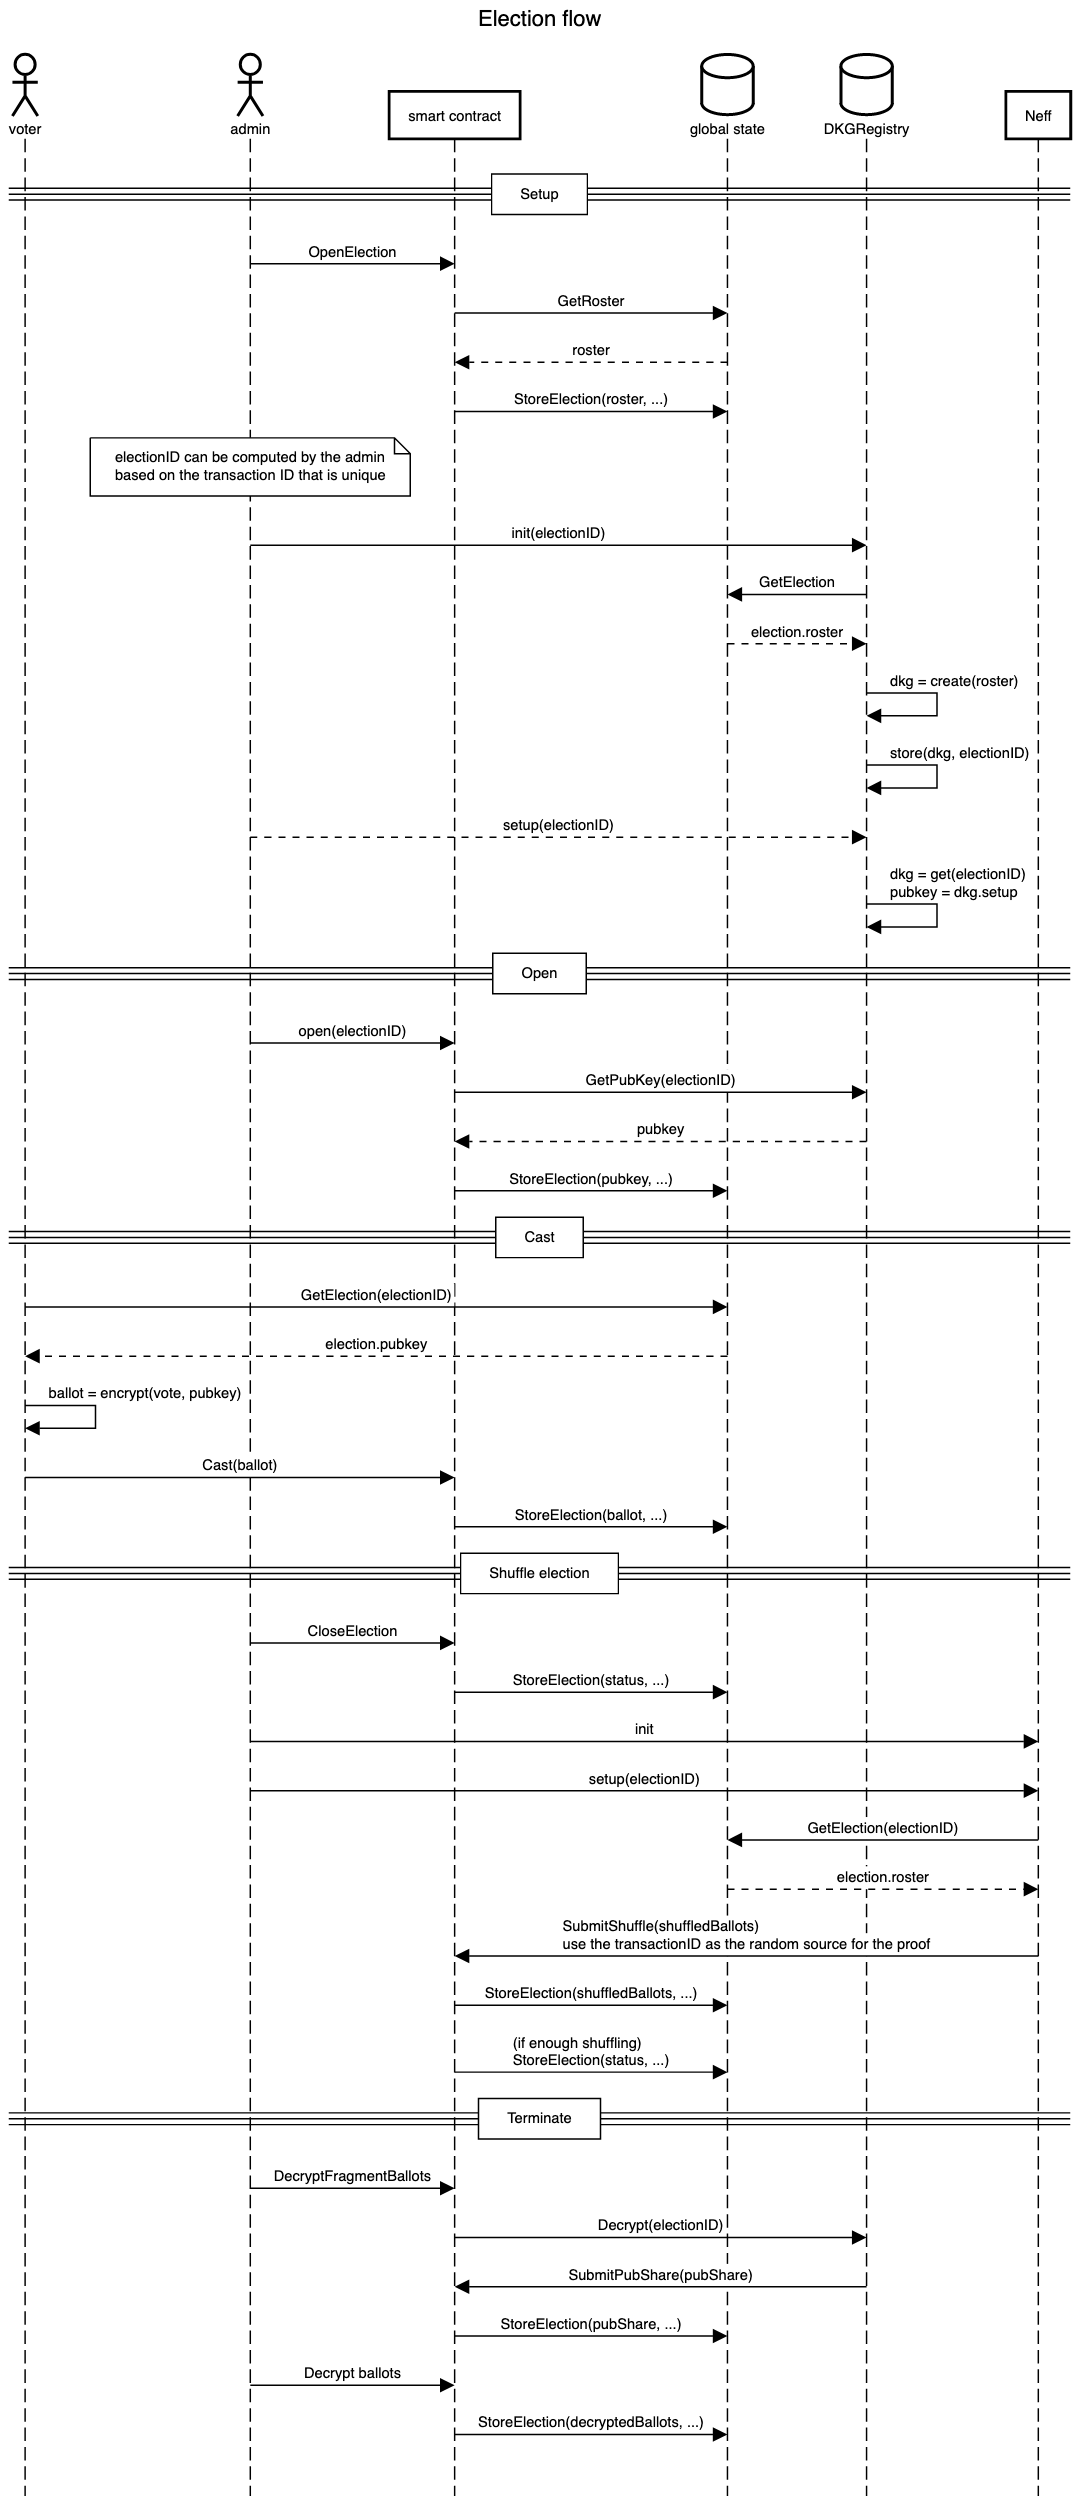
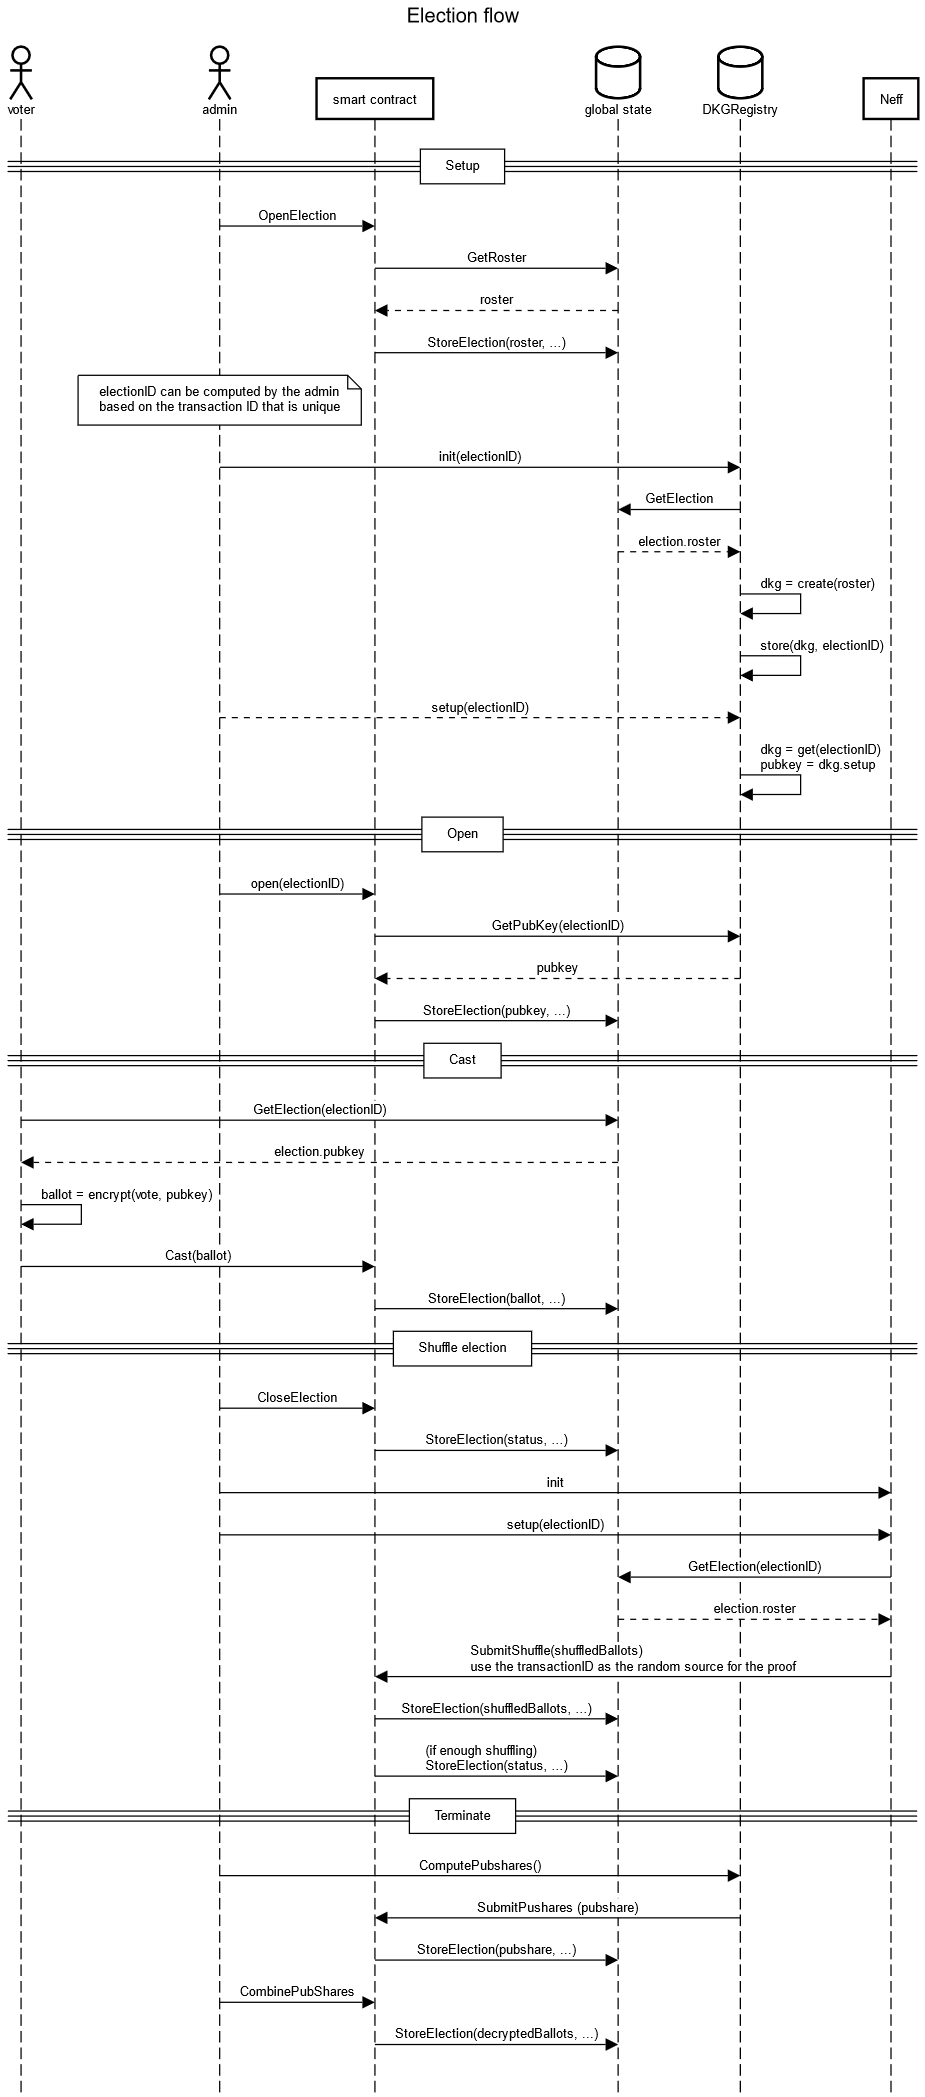
update sequence diagram

Changed region(s): [[0.0, 0.0, 0.9989, 1.0], [0.4541, 0.31, 0.5751, 0.341]]

diff --git a/docs/introduction.md b/docs/introduction.md
@@ -81,14 +81,11 @@ smart contract->global state:StoreElection(shuffledBallots, ...)
 smart contract->global state:(if enough shuffling)\nStoreElection(status, ...)
 
 == Terminate ==
+admin->DKGRegistry: ComputePubshares()
 
-admin->smart contract:DecryptFragmentBallots
-smart contract->DKGRegistry:Decrypt(electionID)
+DKGRegistry->smart contract: SubmitPushares (pubshare)
+smart contract->global state: StoreElection(pubshare, ...)
 
-DKGRegistry->smart contract:SubmitPubShare(pubShare)
-
-smart contract->global state:StoreElection(pubShare, ...)
-
-admin->smart contract:Decrypt ballots
-smart contract->global state:StoreElection(decryptedBallots, ...)
+admin->smart contract: CombinePubShares
+smart contract->global state: StoreElection(decryptedBallots, ...)
 </details>
